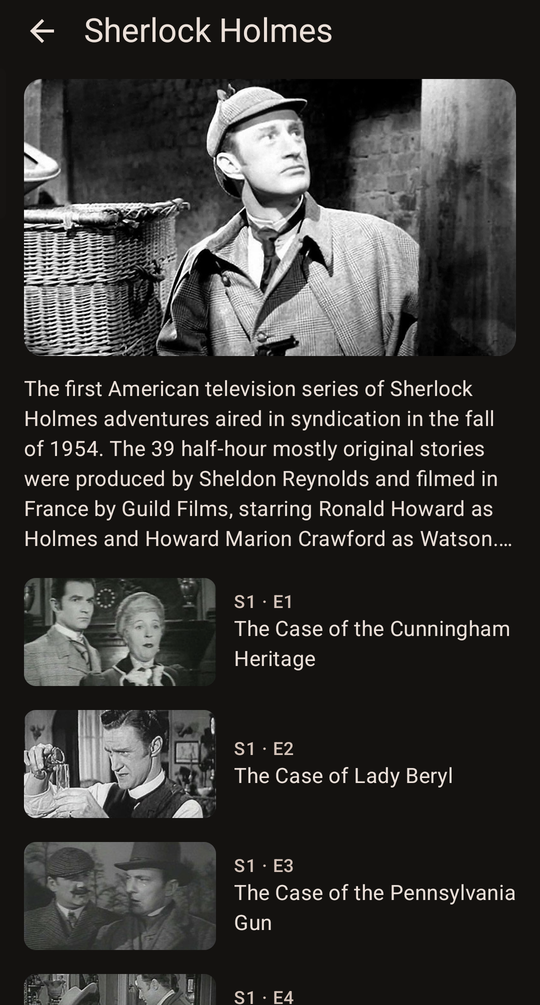
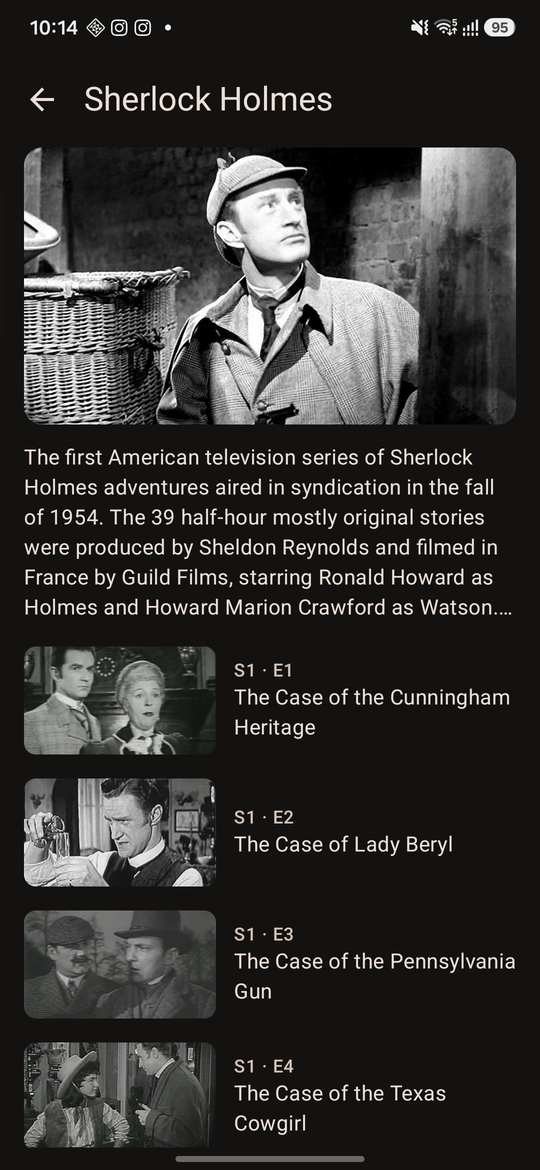
docs(docs): full phone screenshots with the pc name blurred (#42)
## Summary

The README and website screenshots, done again as whole phone screens:

- All four (remote, poster grid, movie card, series page) are full
screenshots of the same size (status bar, app
bar, navigation), instead of crops of different heights; the PC name in
the app bar is blurred.
- The series page is re-taken on a build with the status-bar gap fix
(#41).
- The website's screenshot strip keeps the images' proportions
(`align-items: flex-start`, `height: auto`): a flex row
  stretched a shorter image to the tallest one.

## Release notes

none

## Testing

- The website assembled locally and checked in a browser; the
screenshots reviewed by the owner.

## Device checks pending

—

🤖 Generated with [Claude Code](https://claude.com/claude-code)

---------

diff --git a/site/index.html b/site/index.html
@@ -50,8 +50,8 @@
   .btn.primary { background: var(--accent); color: #2a1406; }
   .btn.ghost { border: 1px solid var(--line); color: var(--text); }
   .note { color: var(--dim); font-size: 14px; }
-  .shots { display: flex; gap: 16px; overflow-x: auto; padding: 24px 0; scroll-snap-type: x mandatory; }
-  .shots img { width: 230px; flex: 0 0 auto; border-radius: 18px; border: 1px solid var(--line); scroll-snap-align: start; }
+  .shots { display: flex; align-items: flex-start; gap: 16px; overflow-x: auto; padding: 24px 0; scroll-snap-type: x mandatory; }
+  .shots img { width: 230px; height: auto; flex: 0 0 auto; border-radius: 18px; border: 1px solid var(--line); scroll-snap-align: start; }
   .grid { display: grid; grid-template-columns: repeat(auto-fit, minmax(260px, 1fr)); gap: 16px; margin: 12px 0 40px; }
   .card { background: var(--card); border: 1px solid var(--line); border-radius: 16px; padding: 18px; }
   .card h3 { margin: 0 0 6px; font-size: 18px; }
